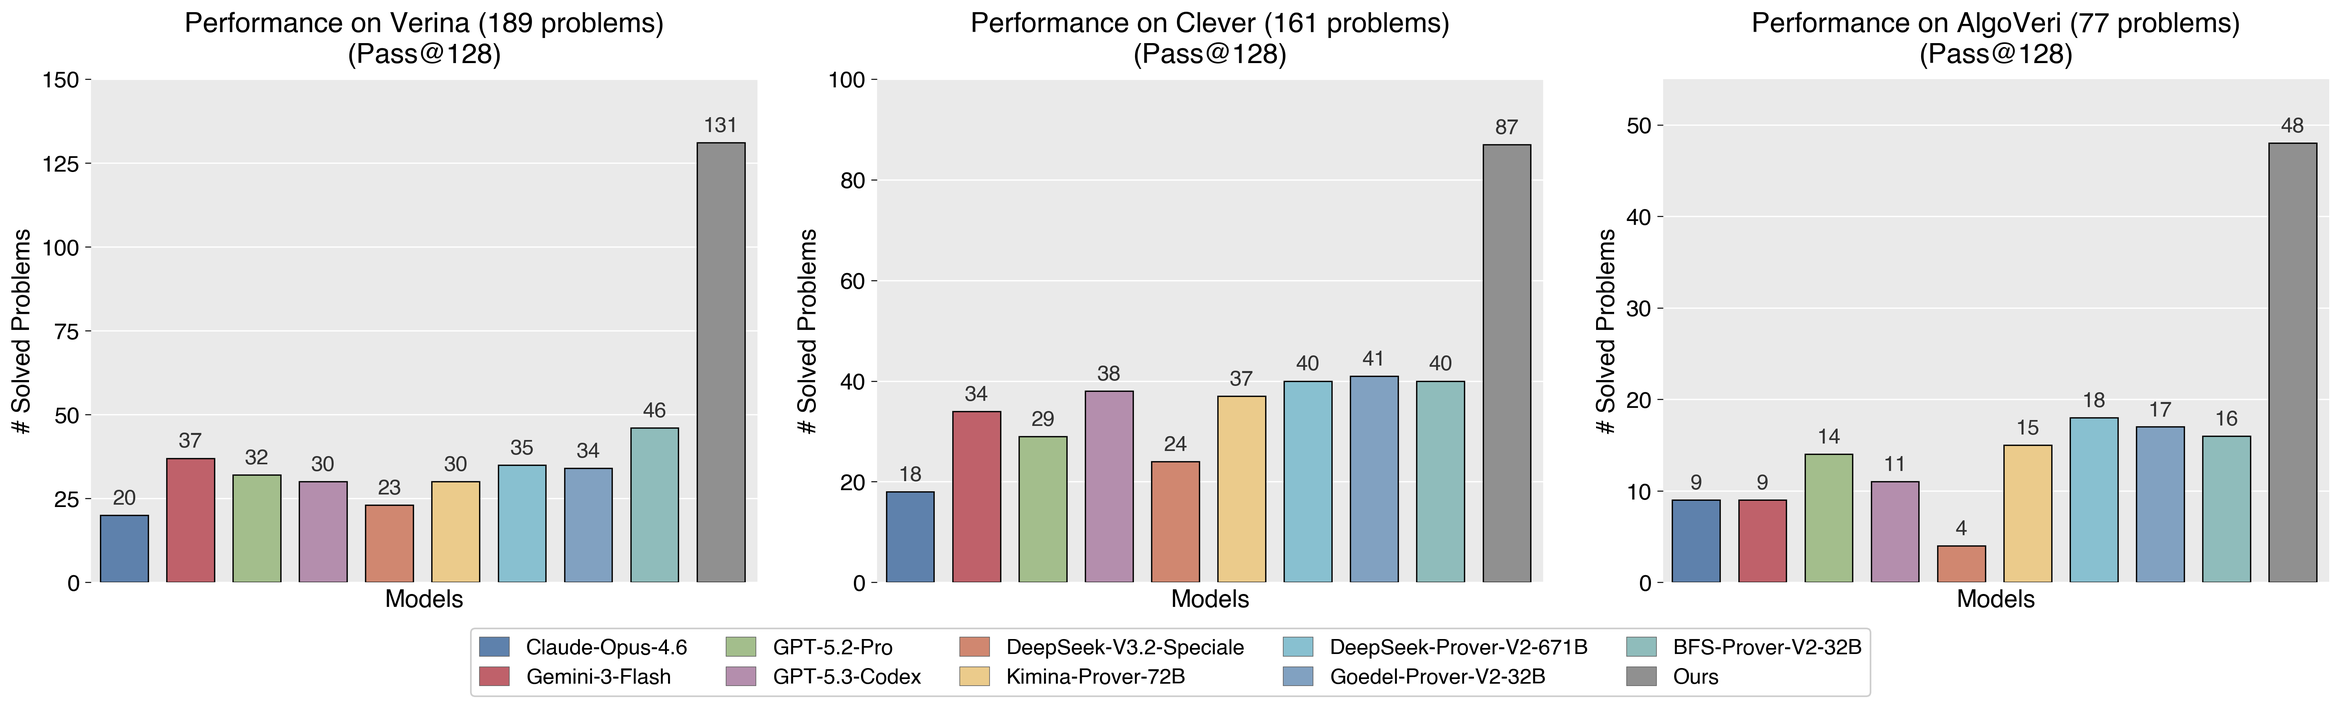
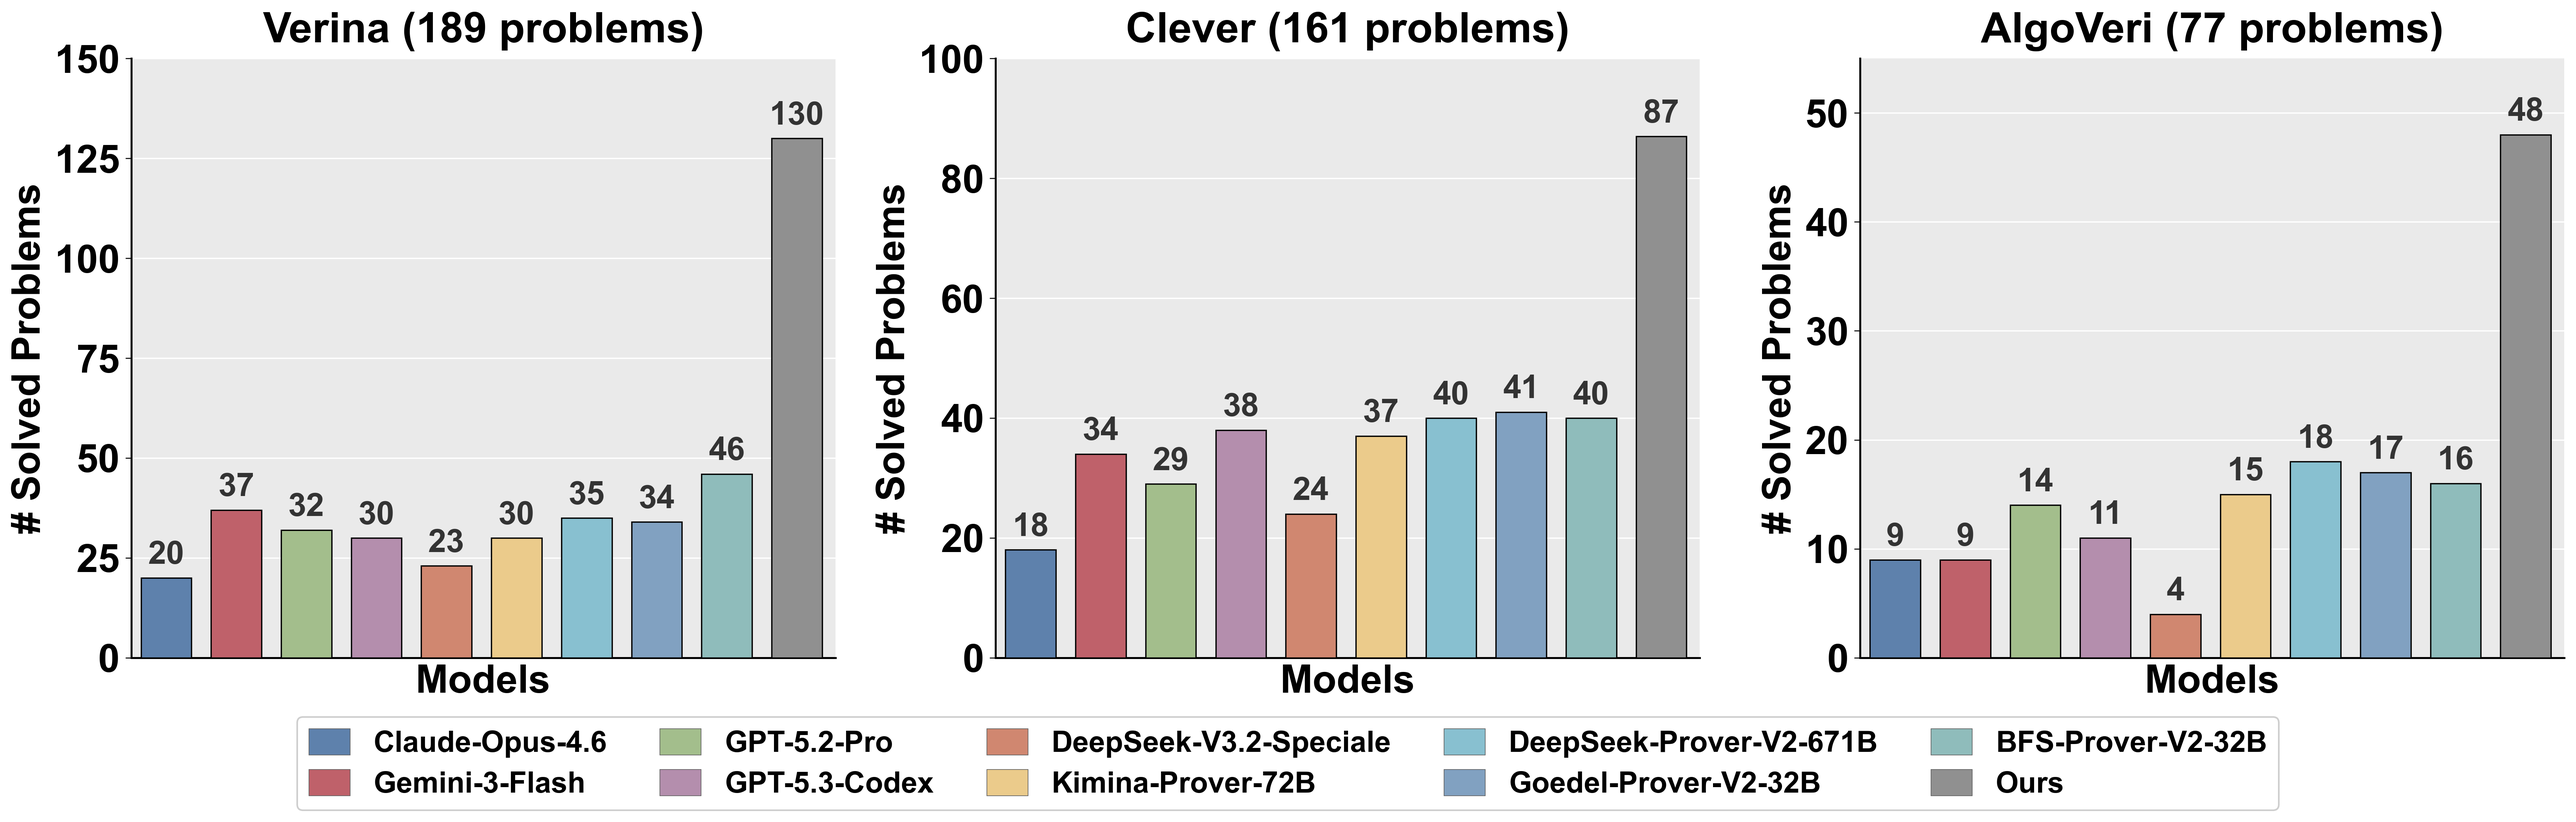
Update benchmark results with latest paper data and add inference-time scaling figure
- Update stats table with new values from Table 1 (add Total column)
- Polish intro Results paragraph with concrete numbers (62.0%, 2.6x, 8B model)
- Polish benchmark text with specific prove rates, model comparisons, and quickcheck stats
- Add inference-time scaling section (Figure 4) showing completion scaling with decomposition
- Update bar chart image to latest version
- Add Lean 4 demo file for FindSingleNumber example

diff --git a/index.html b/index.html
@@ -3,8 +3,8 @@
 <head>
   <meta charset="utf-8">
   <meta name="viewport" content="width=device-width, initial-scale=1">
-  <meta name="description" content="Goedel-Verifier: Automated Code Verification in Lean 4 via Hierarchical Proof Search.">
-  <title>Goedel-Verifier: Automated Code Verification in Lean 4</title>
+  <meta name="description" content="Neumann-Prover: Automated Code Verification via Hierarchical Proof Search.">
+  <title>Neumann-Prover: Automated Code Verification via Hierarchical Proof Search</title>
 
   <link href="https://fonts.googleapis.com/css?family=Google+Sans|Noto+Sans|Castoro" rel="stylesheet">
   <link rel="stylesheet" href="https://cdn.jsdelivr.net/npm/bulma@0.9.4/css/bulma.min.css">
@@ -43,8 +43,8 @@
       <div class="columns is-centered">
         <div class="column has-text-centered">
           <h1 class="title is-1 publication-title">
-            <span style="display:block;font-size:0.62em;font-weight:800;letter-spacing:0.02em;color:#4f46e5;margin-bottom:0.15em;">Goedel-Verifier</span>
-            Decompose and Conquer:<br>Automated Code Verification in Lean 4 via Hierarchical Proof Search
+            <span style="display:block;font-size:0.62em;font-weight:800;letter-spacing:0.02em;color:#4f46e5;margin-bottom:0.15em;">Neumann-Prover</span>
+            Automated Code Verification via Hierarchical Proof Search
           </h1>
           <div class="is-size-5 publication-authors">
             <span class="author-block">Author One<sup>1</sup>,</span>
@@ -104,13 +104,13 @@
             <strong>Problem.</strong> Code can be tested, but testing never exhausts all inputs&mdash;every passing test suite still leaves room for subtle logical errors and specification violations. <em>Formal verification</em> closes this gap by constructing machine-checkable proofs that an implementation satisfies its specification for all possible inputs. We study this problem in Lean 4, a modern interactive theorem prover, where the goal is to automatically generate such proofs for realistic programs.
           </p>
           <p>
-            <strong>Method.</strong> We propose a <em>hierarchical proof search</em> framework built around two stages: <strong>lemma decomposition</strong>, which breaks a complex verification goal into simpler, independently provable subgoals, and <strong>lemma completion</strong>, which solves each subgoal through iterative proof search with compiler feedback. A principled decomposition score drives both stages&mdash;guiding candidate selection at inference and serving as a dense reward signal during training.
+            <strong>Method.</strong> We propose a <em>hierarchical proof search</em> framework built around two stages: <strong>recursive lemma decomposition</strong>, which iteratively breaks a complex verification goal into simpler, independently provable subgoals until each is tractable, and <strong>iterative lemma completion</strong>, which solves each leaf subgoal through proof search with compiler feedback. A principled decomposition score drives both stages&mdash;guiding candidate selection at inference and serving as a dense reward signal during training.
           </p>
           <p>
             <strong>Model &amp; Release.</strong> We train a single unified model, <strong>Goedel-Verifier-Preview-8B</strong>, for both decomposition and completion via supervised initialization followed by hybrid reinforcement learning. We publicly release the model weights and an evaluation framework to support future research in automated code verification.
           </p>
           <p>
-            <strong>Results.</strong> Goedel-Verifier-Preview-8B achieves strong performance across multiple code verification benchmarks&mdash;including Verina, Clever, and AlgoVeri&mdash;demonstrating the effectiveness of hierarchical proof search at scale.
+            <strong>Results.</strong> With only <strong>8B parameters</strong>, Goedel-Verifier-Preview-8B outperforms all baselines across every benchmark&mdash;including frontier reasoning models and neural provers 4&ndash;84&times; its size&mdash;achieving a <strong>2.6&times;</strong> improvement over the strongest baseline and an overall prove success rate of <strong>62.0%</strong> on 427 verification tasks.
           </p>
         </div>
       </div>
@@ -121,7 +121,7 @@
 <section class="section" id="demo">
   <div class="container is-max-desktop is-wider">
     <h2 class="title is-3 has-text-centered">Example: Find the Unique Number (from Verina Benchmark)</h2>
-    <p class="content has-text-centered is-size-6" style="margin-bottom:1rem;">This example asks the program to solve a simple task: given a list in which one integer appears exactly once and every other integer appears exactly twice, return the unique integer. The verification goal is stronger than testing on a few examples: we want a machine-checkable proof that for every valid input list, the implementation always returns the correct answer.</p>
+    <p class="content has-text-centered is-size-6" style="margin-bottom:1rem;">This example asks the program to solve a simple task: given a list in which one integer appears exactly once and every other integer appears exactly twice, return the unique integer. For instance, given <code>[2, 1, 3, 2, 3]</code> the answer is <code>1</code>. The verification goal is stronger than testing on a few examples: we want a machine-checkable proof that for every valid input list, the implementation always returns the correct answer.</p>
 
     <!-- View toggle -->
     <div class="has-text-centered" style="margin-bottom:1rem;">
@@ -458,6 +458,12 @@
           <pre style="margin:0;padding:1rem 1.25rem;background:#1e1e1e;color:#d4d4d4;font-family:'SF Mono',Monaco,'Cascadia Code',Consolas,monospace;font-size:0.82rem;line-height:1.55;white-space:pre-wrap;"><code id="pt-code-content" class="language-lean">-- Select a node in the proof tree above to see its Lean 4 code here.</code></pre>
         </div>
       </div>
+      <div class="has-text-centered" style="margin-top:0.75rem;">
+        <a id="lean-live-link" href="about:blank" class="external-link button is-small is-rounded is-outlined" target="_blank" rel="noopener">
+          <span class="icon is-small"><i class="fas fa-external-link-alt"></i></span>
+          <span>View Complete Code in Lean 4 Live</span>
+        </a>
+      </div>
     </div>
 
     <!-- ═══ VIEW 2: Step-by-Step (original) ═══ -->
@@ -492,8 +498,8 @@
     <div class="mt-5">
       <div class="methodology-block">
         <h3 class="title is-5">Divide the Proof, Conquer the Goal</h3>
-        <p class="content has-text-justified"><strong>Lemma Decomposition.</strong> Given a verification theorem, the model proposes a set of sub-lemmas together with a constructive proof sketch showing that they imply the original goal. We score each decomposition on two axes: <em>correctness</em> (sub-lemmas must survive QuickCheck random testing&mdash;any counterexample discards the candidate) and <em>effectiveness</em> (measured via an operator-footprint metric that rewards decompositions that genuinely simplify the goal). This score doubles as the RL reward during training and the ranking criterion at inference.</p>
-        <p class="content has-text-justified"><strong>Lemma Completion.</strong> Each surviving sub-lemma is proved independently. The model generates a candidate proof and submits it to the Lean 4 compiler; if it fails, the compiler's error message&mdash;type mismatch, unresolved goal, and so on&mdash;is fed back to the model for revision. This human-like edit&ndash;compile&ndash;fix loop continues until the proof passes or a budget is exhausted, and the same loop is replayed during both SFT and RL training.</p>
+        <p class="content has-text-justified"><strong>Recursive Lemma Decomposition.</strong> Given a verification goal, the model recursively proposes sets of sub-lemmas together with constructive proof sketches showing that they imply the original goal, continuing until each sub-lemma is tractable. We score each decomposition on two axes: <em>correctness</em> (sub-lemmas must survive QuickCheck random testing&mdash;any counterexample discards the candidate) and <em>effectiveness</em> (measured via an operator-footprint metric that rewards decompositions that genuinely simplify the goal). This score doubles as the RL reward during training and the ranking criterion at inference.</p>
+        <p class="content has-text-justified"><strong>Iterative Lemma Completion.</strong> Each surviving sub-lemma is proved independently. The model generates a candidate proof and submits it to the Lean 4 compiler; if it fails, the compiler's error message&mdash;type mismatch, unresolved goal, and so on&mdash;is fed back to the model for revision. This human-like edit&ndash;compile&ndash;fix loop continues until the proof passes or a budget is exhausted, and the same loop is replayed during both SFT and RL training.</p>
       </div>
     </div>
 
@@ -866,41 +872,51 @@
 <section class="section" id="benchmark">
   <div class="container is-max-desktop is-wider">
     <h2 class="title is-3 has-text-centered">Benchmark Performance</h2>
-    <p class="content has-text-centered is-size-6" style="margin-bottom:1.5rem;">Number of solved problems across three code verification benchmarks.</p>
+    <p class="content has-text-justified is-size-6" style="margin-bottom:1.5rem;">We evaluate on three Lean 4 code verification benchmarks: <strong>Verina</strong> (189 problems), <strong>Clever</strong> (161 problems), and <strong>AlgoVeri</strong> (77 problems), totaling 427 verification tasks. Baselines include frontier reasoning models (Claude-Opus-4.6, Gemini-3-Flash, GPT-5.2-Pro, GPT-5.3-Codex, Deepseek-V3.2-Speciale) and neural provers (Kimina-Prover-72B, DeepSeek-Prover-V2-671B, Goedel-Prover-V2-32B, BFS-Prover-V2-32B).</p>
     <figure class="has-text-centered performance-figure" style="background:#fff; border-radius:14px; padding:1.5rem 1.5rem 1rem; box-shadow: 0 4px 6px -1px rgba(0,0,0,0.08), 0 10px 20px -3px rgba(0,0,0,0.10), 0 -2px 0 0 rgba(0,0,0,0.02); border:1px solid #e5e7eb; transform: translateY(0); transition: box-shadow 0.3s ease, transform 0.3s ease;">
       <img src="figs/performance.png?v=2" alt="Number of solved problems on Verina, Clever, and AlgoVeri" style="max-width:100%; height:auto; display:block; margin:0 auto;">
     </figure>
-    <p class="content is-size-7 has-text-left" style="margin-top:0.5rem;color:#64748b;">Note. Baseline results are obtained with parallel generation and reported as Pass@128. Our method is evaluated under a search-based inference setting with Goedel-Verifier-Preview-8B.</p>
+    <p class="content is-size-7 has-text-left" style="margin-top:0.5rem;color:#64748b;">Note. Baseline results are obtained with parallel generation and reported as Pass@128. Our method operates under a search-based inference setting using Goedel-Verifier-Preview-8B.</p>
     <p class="content has-text-justified is-size-6" style="margin-top:1rem;color:#334155;">
-      Goedel-Verifier-Preview-8B solves <strong>the most problems across all three benchmarks</strong>, outperforming significantly larger frontier models through hierarchical proof search rather than brute-force scaling.
+      Goedel-Verifier-Preview-8B achieves prove success rates of <strong>68.8%</strong> on Verina, <strong>54.0%</strong> on Clever, and <strong>62.3%</strong> on AlgoVeri, yielding an overall rate of <strong>62.0%</strong> across all 427 tasks — a <strong>2.6&times;</strong> improvement over the strongest baseline. Notably, this is achieved with an 8B model, surpassing neural provers 4&ndash;84&times; its size (32B&ndash;671B). In addition, the built-in quickcheck mechanism disproves 23, 10, and 14 problems on Verina, Clever, and AlgoVeri respectively by producing concrete counterexamples.
     </p>
 
     <p class="content has-text-centered is-size-6" style="margin-top:2rem; margin-bottom:1rem;">Statistics of proved problems: mean and standard deviation for lemma count and proof length.</p>
     <div class="columns is-centered">
-      <div class="column is-8">
+      <div class="column is-12">
         <div class="benchmark-table-wrapper table-container stats-table-wrapper">
-          <table class="table benchmark-table stats-table">
+          <table class="table benchmark-table stats-table is-fullwidth">
             <thead>
               <tr>
                 <th>Statistics</th>
                 <th>Verina</th>
                 <th>Clever</th>
                 <th>AlgoVeri</th>
+                <th>Total</th>
               </tr>
             </thead>
             <tbody>
-              <tr><td>Lemma count (mean)</td><td>26.82</td><td>12.13</td><td>20.05</td></tr>
-              <tr><td>Lemma count (std)</td><td>9.68</td><td>10.57</td><td>10.97</td></tr>
-              <tr><td>Proof length (mean)</td><td>274.82</td><td>137.78</td><td>198.11</td></tr>
-              <tr><td>Proof length (std)</td><td>115.01</td><td>97.79</td><td>105.45</td></tr>
+              <tr><td>Lemma count (mean)</td><td>17.02</td><td>12.13</td><td>8.48</td><td>14.38</td></tr>
+              <tr><td>Lemma count (std)</td><td>11.79</td><td>10.57</td><td>10.97</td><td>11.97</td></tr>
+              <tr><td>Proof length (mean)</td><td>167.11</td><td>137.78</td><td>129.87</td><td>154.28</td></tr>
+              <tr><td>Proof length (std)</td><td>108.50</td><td>97.79</td><td>83.03</td><td>103.11</td></tr>
             </tbody>
           </table>
         </div>
       </div>
     </div>
     <p class="content has-text-justified is-size-6" style="margin-top:1rem;color:#334155;">
-      The high lemma counts and proof lengths confirm that successfully verified problems require <strong>deep, multi-step decomposition</strong> rather than simple tactic scripts. This demonstrates the model's ability to perform effective structural decomposition and generate complex proofs end-to-end.
+      On average, each verified problem requires 8 to 17 auxiliary lemmas and over 130 lines of proof code, with the longest proofs reaching 680, 559, and 534 lines on Verina, Clever, and AlgoVeri. These statistics confirm that successfully verified problems demand <strong>deep, multi-step decomposition</strong> rather than simple tactic scripts, reflecting the depth of reasoning the framework can sustain.
     </p>
+
+    <h3 class="title is-4 has-text-centered" style="margin-top:2.5rem;">Inference-Time Scaling</h3>
+    <figure class="has-text-centered performance-figure" style="background:#fff; border-radius:14px; padding:1.5rem 1.5rem 1rem; box-shadow: 0 4px 6px -1px rgba(0,0,0,0.08), 0 10px 20px -3px rgba(0,0,0,0.10), 0 -2px 0 0 rgba(0,0,0,0.02); border:1px solid #e5e7eb;">
+      <img src="figs/scaling.png" alt="Prove success rate vs. completion iterations under different pass@k budgets" style="max-width:100%; height:auto; display:block; margin:0 auto;">
+    </figure>
+    <p class="content has-text-justified is-size-6" style="margin-top:1rem;color:#334155;">
+      By first decomposing verification goals into simpler sub-lemmas, the completion stage enjoys significantly improved inference-time scaling: prove success rate grows steadily with more iterations and larger pass@k across all benchmarks, with no sign of saturation. This confirms that effective decomposition is the key enabler: it transforms intractable monolithic proofs into independently solvable pieces, allowing completion to scale efficiently with additional compute.
+    </p>
+
   </div>
 </section>
   <div class="container">
@@ -975,6 +991,15 @@
       d.addEventListener('click', function() { loadStep(parseInt(d.getAttribute('data-step'), 10)); });
     });
     loadStep(1);
+  })();
+
+  // Lean 4 Live link: construct absolute URL from relative path
+  (function() {
+    var link = document.getElementById('lean-live-link');
+    if (link) {
+      var base = new URL('./demo/find_single_number.lean', document.baseURI).href;
+      link.href = 'https://live.lean-lang.org/#url=' + base;
+    }
   })();
 
   // ═══════════════════════════════════════════

diff --git a/static/css/index.css b/static/css/index.css
@@ -255,7 +255,7 @@ body {
 
 /* Stats table: narrower, first column compact (override above) */
 #benchmark .stats-table-wrapper {
-  max-width: 26rem;
+  max-width: 32rem;
   margin-left: auto;
   margin-right: auto;
 }
@@ -265,8 +265,8 @@ body {
 }
 #benchmark .stats-table-wrapper .table.benchmark-table td:first-child,
 #benchmark .stats-table-wrapper .table.benchmark-table th:first-child {
-  width: 7rem;
-  max-width: 7rem;
+  width: 11rem;
+  max-width: 11rem;
   padding-left: 0.5rem;
   padding-right: 0.5rem;
   box-sizing: border-box;
